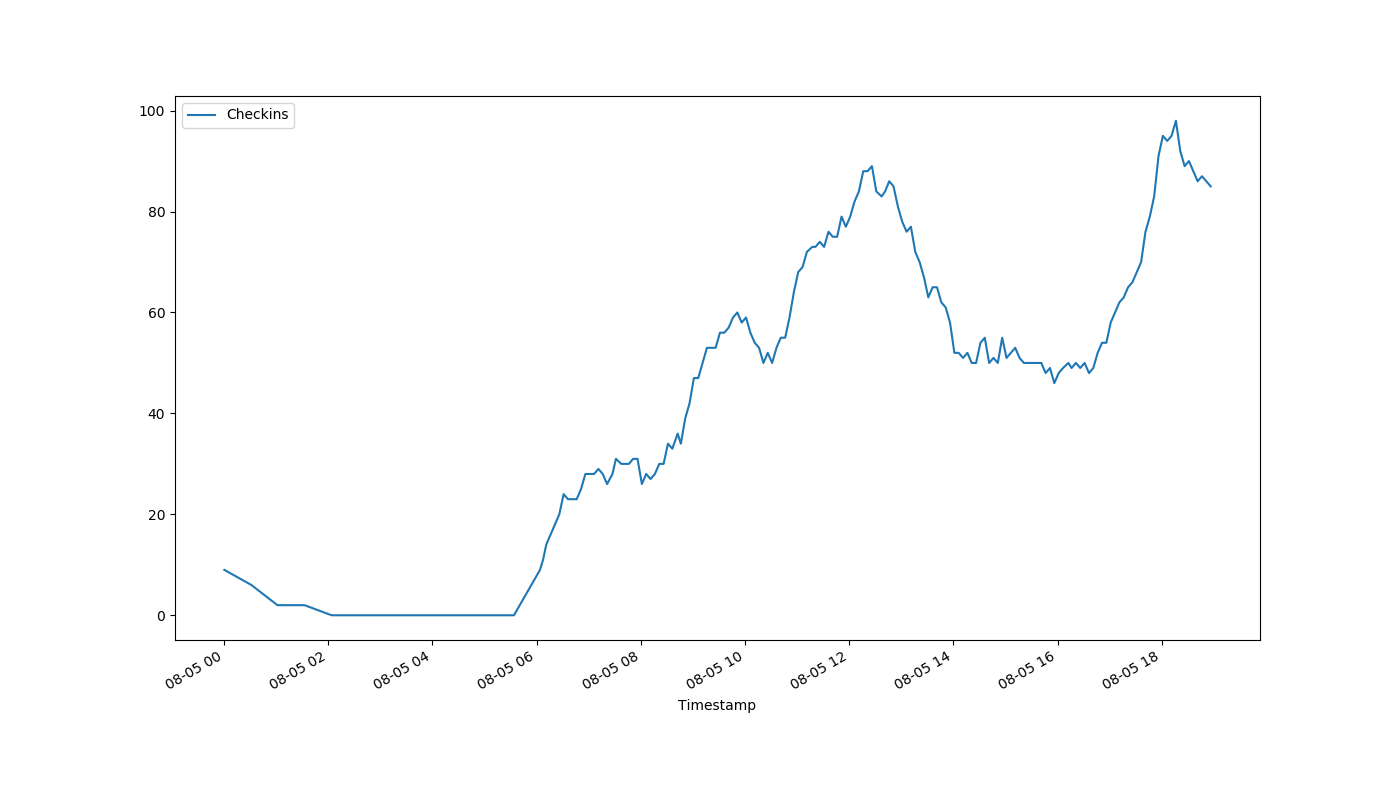
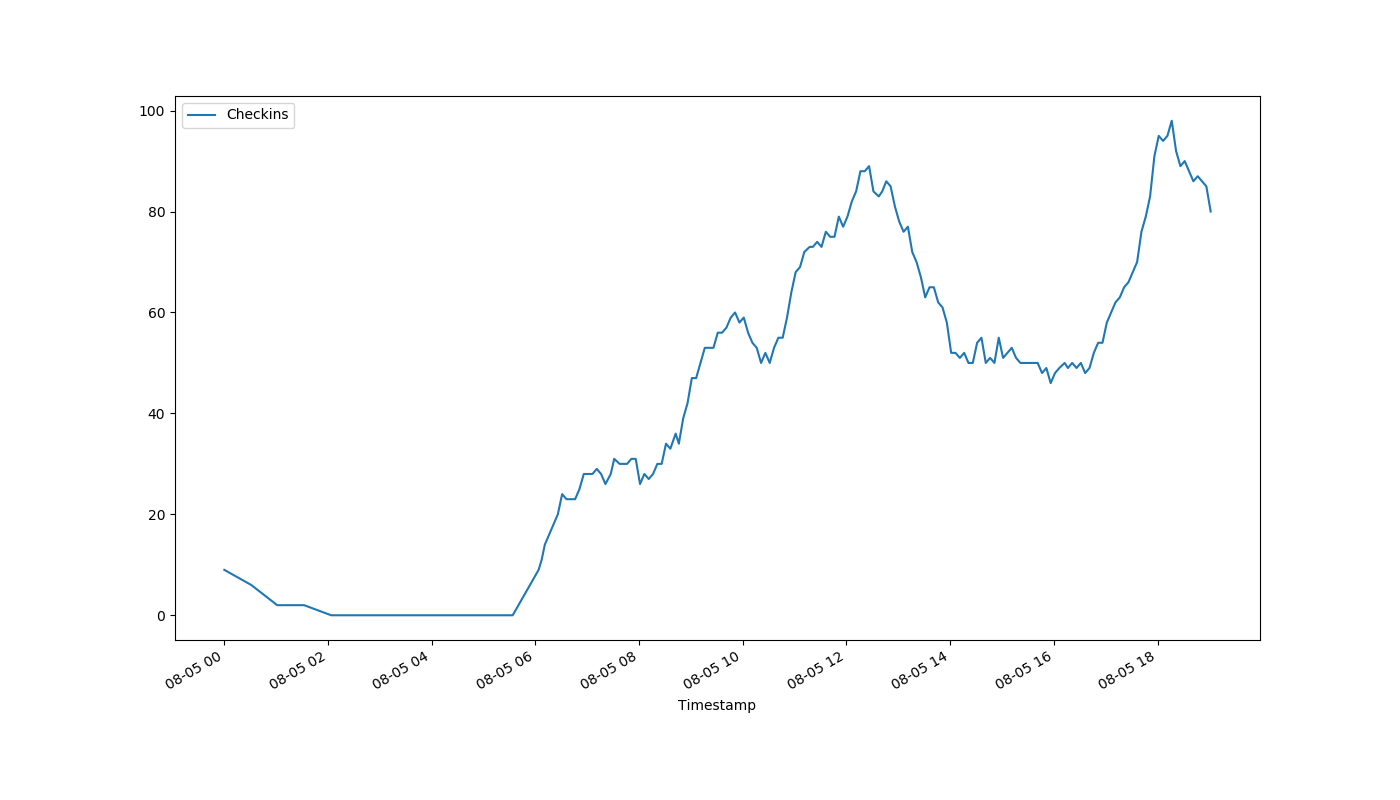
auto-Aug-05-19:03:32

diff --git a/index.html b/index.html
@@ -1,1 +1,1 @@
-<!DOCTYPE html><html><head><meta http-equiv="refresh" content="30"><link rel='stylesheet' href='holmcurrent.css'></head><body><p id='count'>85</p><div id='graph-wrap'><img id='graph' src='holmgraph-Aug-05.png'></div><p id='updated'>Last updated 18:57:04 / 18:56:18</p></body></html>
+<!DOCTYPE html><html><head><meta http-equiv="refresh" content="30"><link rel='stylesheet' href='holmcurrent.css'></head><body><p id='count'>80</p><div id='graph-wrap'><img id='graph' src='holmgraph-Aug-05.png'></div><p id='updated'>Last updated 19:02:04 / 19:01:18</p></body></html>
